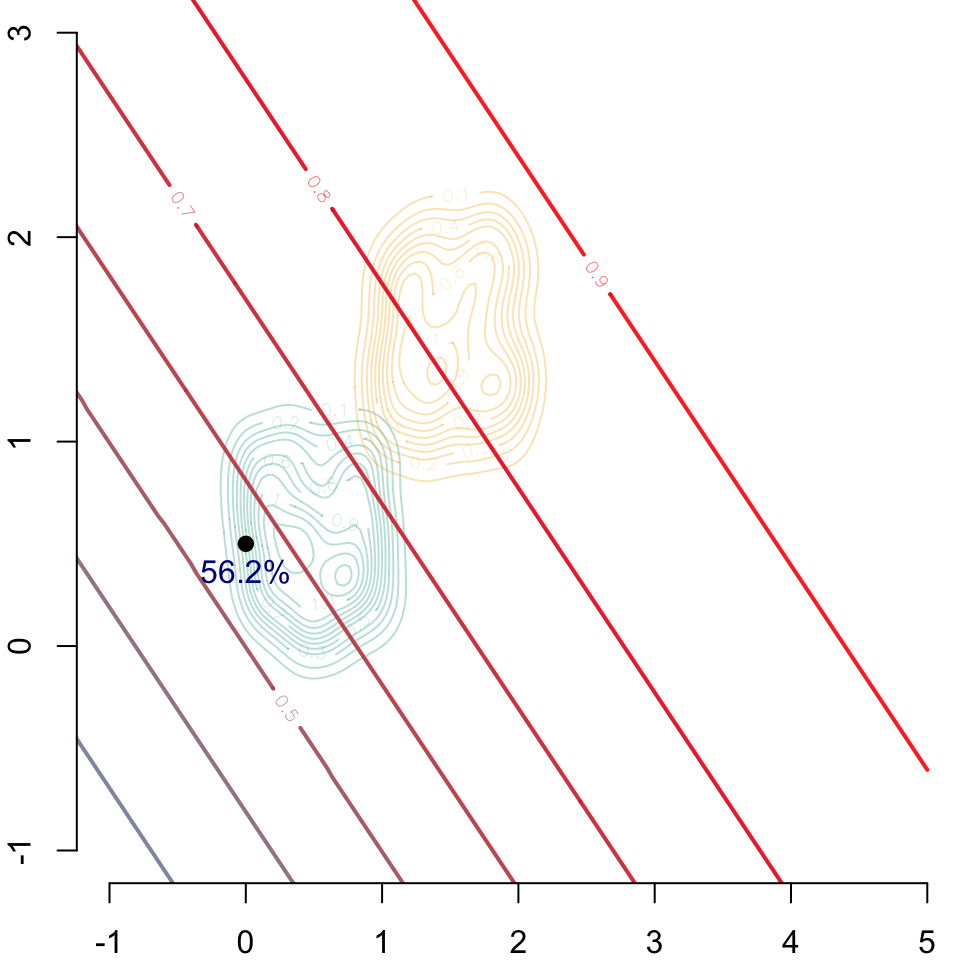
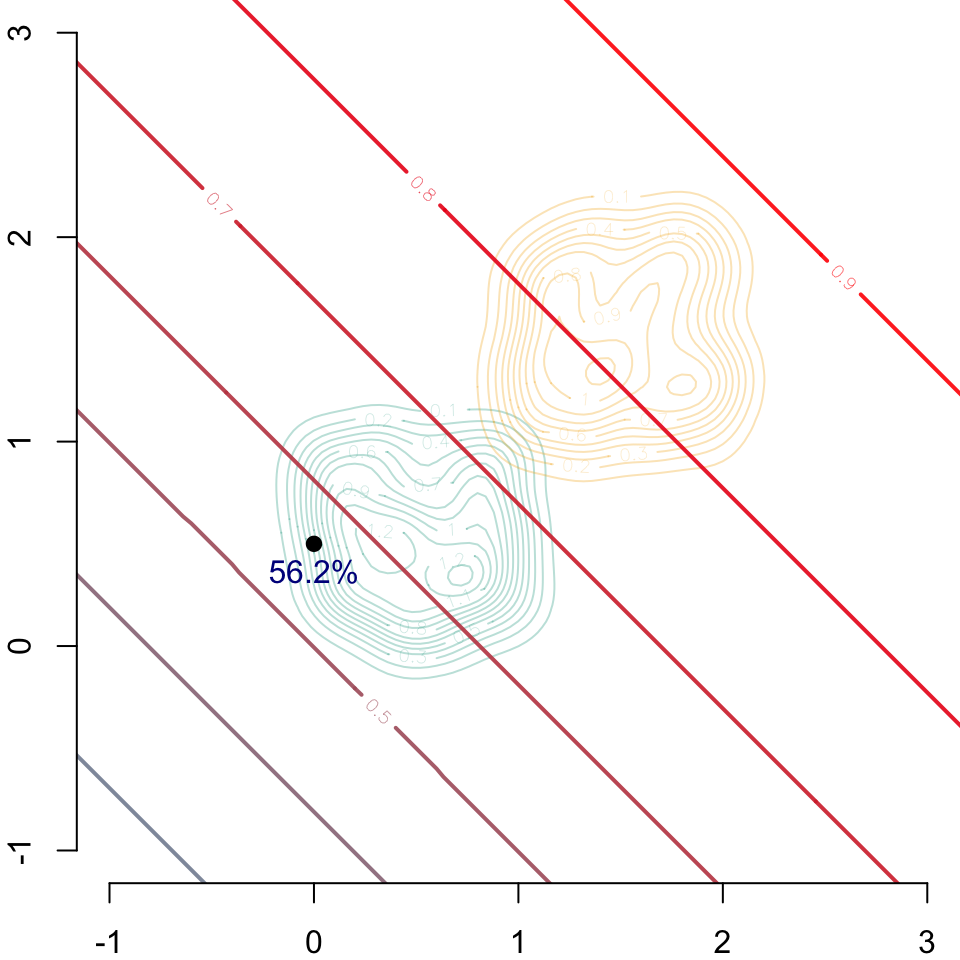
Same scale for axis showing densities

diff --git a/docs/gaussian-dep.html b/docs/gaussian-dep.html
@@ -989,35 +989,36 @@ m(x_1,x_2,s)=\big(1+\exp\big[-\big((x_1+x_2)/2 + \boldsymbol{1}(s=1)\big)\big]\b
 <span id="cb50-11"><a href="#cb50-11" aria-hidden="true" tabindex="-1"></a>  f0_2d<span class="sc">$</span>eval.point[[<span class="dv">2</span>]],</span>
 <span id="cb50-12"><a href="#cb50-12" aria-hidden="true" tabindex="-1"></a>  f0_2d<span class="sc">$</span>estimate,</span>
 <span id="cb50-13"><a href="#cb50-13" aria-hidden="true" tabindex="-1"></a>  <span class="at">col =</span> scales<span class="sc">::</span><span class="fu">alpha</span>(colours[<span class="st">"A"</span>], .<span class="dv">3</span>),</span>
-<span id="cb50-14"><a href="#cb50-14" aria-hidden="true" tabindex="-1"></a>  <span class="at">axes =</span> <span class="cn">FALSE</span>, <span class="at">xlab =</span> <span class="st">""</span>, <span class="at">ylab =</span> <span class="st">""</span></span>
-<span id="cb50-15"><a href="#cb50-15" aria-hidden="true" tabindex="-1"></a>)</span>
-<span id="cb50-16"><a href="#cb50-16" aria-hidden="true" tabindex="-1"></a><span class="co"># Group 1</span></span>
-<span id="cb50-17"><a href="#cb50-17" aria-hidden="true" tabindex="-1"></a><span class="do">## Estimated density: level curves for (x1, x2) -&gt; m(1, x1, x2)</span></span>
-<span id="cb50-18"><a href="#cb50-18" aria-hidden="true" tabindex="-1"></a><span class="fu">contour</span>(</span>
-<span id="cb50-19"><a href="#cb50-19" aria-hidden="true" tabindex="-1"></a>  f1_2d<span class="sc">$</span>eval.point[[<span class="dv">1</span>]],</span>
-<span id="cb50-20"><a href="#cb50-20" aria-hidden="true" tabindex="-1"></a>  f1_2d<span class="sc">$</span>eval.point[[<span class="dv">2</span>]],</span>
-<span id="cb50-21"><a href="#cb50-21" aria-hidden="true" tabindex="-1"></a>  f1_2d<span class="sc">$</span>estimate,</span>
-<span id="cb50-22"><a href="#cb50-22" aria-hidden="true" tabindex="-1"></a>  <span class="at">col =</span> scales<span class="sc">::</span><span class="fu">alpha</span>(colours[<span class="st">"B"</span>], .<span class="dv">3</span>), <span class="at">add =</span> <span class="cn">TRUE</span></span>
-<span id="cb50-23"><a href="#cb50-23" aria-hidden="true" tabindex="-1"></a>)</span>
-<span id="cb50-24"><a href="#cb50-24" aria-hidden="true" tabindex="-1"></a><span class="fu">contour</span>(</span>
-<span id="cb50-25"><a href="#cb50-25" aria-hidden="true" tabindex="-1"></a>  vx0, vx0, dlogistique0,</span>
-<span id="cb50-26"><a href="#cb50-26" aria-hidden="true" tabindex="-1"></a>  <span class="at">levels =</span> (<span class="dv">1</span><span class="sc">:</span><span class="dv">9</span>)<span class="sc">/</span><span class="dv">10</span>,</span>
-<span id="cb50-27"><a href="#cb50-27" aria-hidden="true" tabindex="-1"></a>  <span class="at">col =</span> scl,</span>
-<span id="cb50-28"><a href="#cb50-28" aria-hidden="true" tabindex="-1"></a>  <span class="at">add =</span> <span class="cn">TRUE</span>,<span class="at">lwd =</span> <span class="dv">2</span></span>
-<span id="cb50-29"><a href="#cb50-29" aria-hidden="true" tabindex="-1"></a>)</span>
-<span id="cb50-30"><a href="#cb50-30" aria-hidden="true" tabindex="-1"></a><span class="fu">axis</span>(<span class="dv">1</span>)</span>
-<span id="cb50-31"><a href="#cb50-31" aria-hidden="true" tabindex="-1"></a><span class="fu">axis</span>(<span class="dv">2</span>)</span>
-<span id="cb50-32"><a href="#cb50-32" aria-hidden="true" tabindex="-1"></a></span>
-<span id="cb50-33"><a href="#cb50-33" aria-hidden="true" tabindex="-1"></a><span class="do">###</span></span>
-<span id="cb50-34"><a href="#cb50-34" aria-hidden="true" tabindex="-1"></a><span class="co"># Individual (S=0, x1=-2, x2=-1)</span></span>
-<span id="cb50-35"><a href="#cb50-35" aria-hidden="true" tabindex="-1"></a><span class="do">###</span></span>
-<span id="cb50-36"><a href="#cb50-36" aria-hidden="true" tabindex="-1"></a><span class="fu">points</span>(coords_indep<span class="sc">$</span>start[<span class="dv">1</span>], coords_indep<span class="sc">$</span>start[<span class="dv">2</span>], <span class="at">pch =</span> <span class="dv">19</span>, <span class="at">cex =</span> CeX)</span>
-<span id="cb50-37"><a href="#cb50-37" aria-hidden="true" tabindex="-1"></a><span class="do">## Predicted value for the individual, based on factuals</span></span>
-<span id="cb50-38"><a href="#cb50-38" aria-hidden="true" tabindex="-1"></a><span class="fu">text</span>(</span>
-<span id="cb50-39"><a href="#cb50-39" aria-hidden="true" tabindex="-1"></a>  coords_indep<span class="sc">$</span>start[<span class="dv">1</span>], coords_indep<span class="sc">$</span>start[<span class="dv">2</span>], </span>
-<span id="cb50-40"><a href="#cb50-40" aria-hidden="true" tabindex="-1"></a>  <span class="fu">paste</span>(<span class="fu">round</span>(predicted_val[<span class="dv">1</span>] <span class="sc">*</span> <span class="dv">100</span>, <span class="dv">1</span>), <span class="st">"%"</span>, <span class="at">sep =</span> <span class="st">""</span>), </span>
-<span id="cb50-41"><a href="#cb50-41" aria-hidden="true" tabindex="-1"></a>  <span class="at">pos =</span> <span class="dv">1</span>, <span class="at">cex =</span> CeX, <span class="at">col =</span> <span class="st">"darkblue"</span></span>
-<span id="cb50-42"><a href="#cb50-42" aria-hidden="true" tabindex="-1"></a>)</span></code><button title="Copy to Clipboard" class="code-copy-button"><i class="bi"></i></button></pre></div>
+<span id="cb50-14"><a href="#cb50-14" aria-hidden="true" tabindex="-1"></a>  <span class="at">axes =</span> <span class="cn">FALSE</span>, <span class="at">xlab =</span> <span class="st">""</span>, <span class="at">ylab =</span> <span class="st">""</span>,</span>
+<span id="cb50-15"><a href="#cb50-15" aria-hidden="true" tabindex="-1"></a>  <span class="at">xlim =</span> <span class="fu">c</span>(<span class="sc">-</span><span class="dv">1</span>, <span class="dv">3</span>), <span class="at">ylim =</span> <span class="fu">c</span>(<span class="sc">-</span><span class="dv">1</span>, <span class="dv">3</span>)</span>
+<span id="cb50-16"><a href="#cb50-16" aria-hidden="true" tabindex="-1"></a>)</span>
+<span id="cb50-17"><a href="#cb50-17" aria-hidden="true" tabindex="-1"></a><span class="co"># Group 1</span></span>
+<span id="cb50-18"><a href="#cb50-18" aria-hidden="true" tabindex="-1"></a><span class="do">## Estimated density: level curves for (x1, x2) -&gt; m(1, x1, x2)</span></span>
+<span id="cb50-19"><a href="#cb50-19" aria-hidden="true" tabindex="-1"></a><span class="fu">contour</span>(</span>
+<span id="cb50-20"><a href="#cb50-20" aria-hidden="true" tabindex="-1"></a>  f1_2d<span class="sc">$</span>eval.point[[<span class="dv">1</span>]],</span>
+<span id="cb50-21"><a href="#cb50-21" aria-hidden="true" tabindex="-1"></a>  f1_2d<span class="sc">$</span>eval.point[[<span class="dv">2</span>]],</span>
+<span id="cb50-22"><a href="#cb50-22" aria-hidden="true" tabindex="-1"></a>  f1_2d<span class="sc">$</span>estimate,</span>
+<span id="cb50-23"><a href="#cb50-23" aria-hidden="true" tabindex="-1"></a>  <span class="at">col =</span> scales<span class="sc">::</span><span class="fu">alpha</span>(colours[<span class="st">"B"</span>], .<span class="dv">3</span>), <span class="at">add =</span> <span class="cn">TRUE</span></span>
+<span id="cb50-24"><a href="#cb50-24" aria-hidden="true" tabindex="-1"></a>)</span>
+<span id="cb50-25"><a href="#cb50-25" aria-hidden="true" tabindex="-1"></a><span class="fu">contour</span>(</span>
+<span id="cb50-26"><a href="#cb50-26" aria-hidden="true" tabindex="-1"></a>  vx0, vx0, dlogistique0,</span>
+<span id="cb50-27"><a href="#cb50-27" aria-hidden="true" tabindex="-1"></a>  <span class="at">levels =</span> (<span class="dv">1</span><span class="sc">:</span><span class="dv">9</span>)<span class="sc">/</span><span class="dv">10</span>,</span>
+<span id="cb50-28"><a href="#cb50-28" aria-hidden="true" tabindex="-1"></a>  <span class="at">col =</span> scl,</span>
+<span id="cb50-29"><a href="#cb50-29" aria-hidden="true" tabindex="-1"></a>  <span class="at">add =</span> <span class="cn">TRUE</span>,<span class="at">lwd =</span> <span class="dv">2</span></span>
+<span id="cb50-30"><a href="#cb50-30" aria-hidden="true" tabindex="-1"></a>)</span>
+<span id="cb50-31"><a href="#cb50-31" aria-hidden="true" tabindex="-1"></a><span class="fu">axis</span>(<span class="dv">1</span>)</span>
+<span id="cb50-32"><a href="#cb50-32" aria-hidden="true" tabindex="-1"></a><span class="fu">axis</span>(<span class="dv">2</span>)</span>
+<span id="cb50-33"><a href="#cb50-33" aria-hidden="true" tabindex="-1"></a></span>
+<span id="cb50-34"><a href="#cb50-34" aria-hidden="true" tabindex="-1"></a><span class="do">###</span></span>
+<span id="cb50-35"><a href="#cb50-35" aria-hidden="true" tabindex="-1"></a><span class="co"># Individual (S=0, x1=-2, x2=-1)</span></span>
+<span id="cb50-36"><a href="#cb50-36" aria-hidden="true" tabindex="-1"></a><span class="do">###</span></span>
+<span id="cb50-37"><a href="#cb50-37" aria-hidden="true" tabindex="-1"></a><span class="fu">points</span>(coords_indep<span class="sc">$</span>start[<span class="dv">1</span>], coords_indep<span class="sc">$</span>start[<span class="dv">2</span>], <span class="at">pch =</span> <span class="dv">19</span>, <span class="at">cex =</span> CeX)</span>
+<span id="cb50-38"><a href="#cb50-38" aria-hidden="true" tabindex="-1"></a><span class="do">## Predicted value for the individual, based on factuals</span></span>
+<span id="cb50-39"><a href="#cb50-39" aria-hidden="true" tabindex="-1"></a><span class="fu">text</span>(</span>
+<span id="cb50-40"><a href="#cb50-40" aria-hidden="true" tabindex="-1"></a>  coords_indep<span class="sc">$</span>start[<span class="dv">1</span>], coords_indep<span class="sc">$</span>start[<span class="dv">2</span>], </span>
+<span id="cb50-41"><a href="#cb50-41" aria-hidden="true" tabindex="-1"></a>  <span class="fu">paste</span>(<span class="fu">round</span>(predicted_val[<span class="dv">1</span>] <span class="sc">*</span> <span class="dv">100</span>, <span class="dv">1</span>), <span class="st">"%"</span>, <span class="at">sep =</span> <span class="st">""</span>), </span>
+<span id="cb50-42"><a href="#cb50-42" aria-hidden="true" tabindex="-1"></a>  <span class="at">pos =</span> <span class="dv">1</span>, <span class="at">cex =</span> CeX, <span class="at">col =</span> <span class="st">"darkblue"</span></span>
+<span id="cb50-43"><a href="#cb50-43" aria-hidden="true" tabindex="-1"></a>)</span></code><button title="Copy to Clipboard" class="code-copy-button"><i class="bi"></i></button></pre></div>
 </details>
 <div class="cell-output-display">
 <div id="fig-counterfactuals-new-individual-1" class="quarto-float quarto-figure quarto-figure-center anchored">
